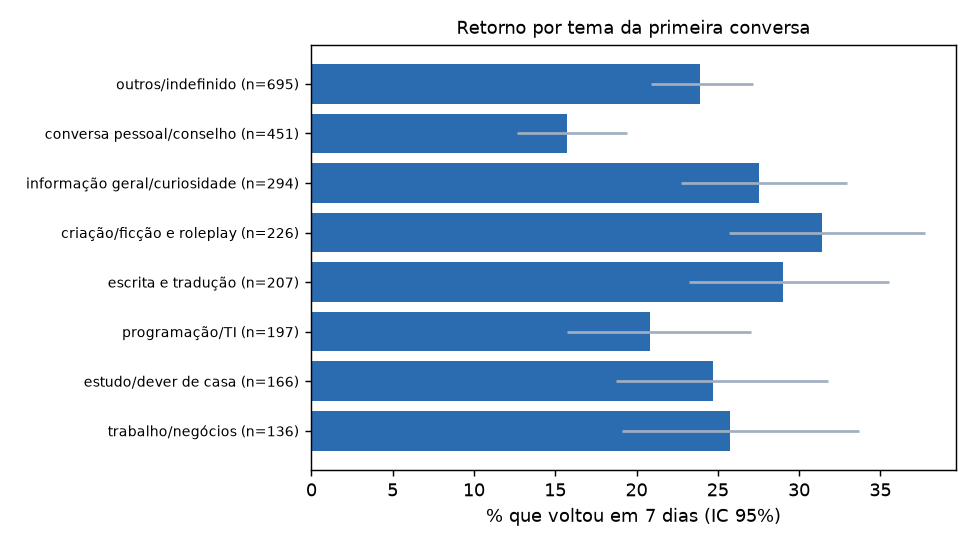
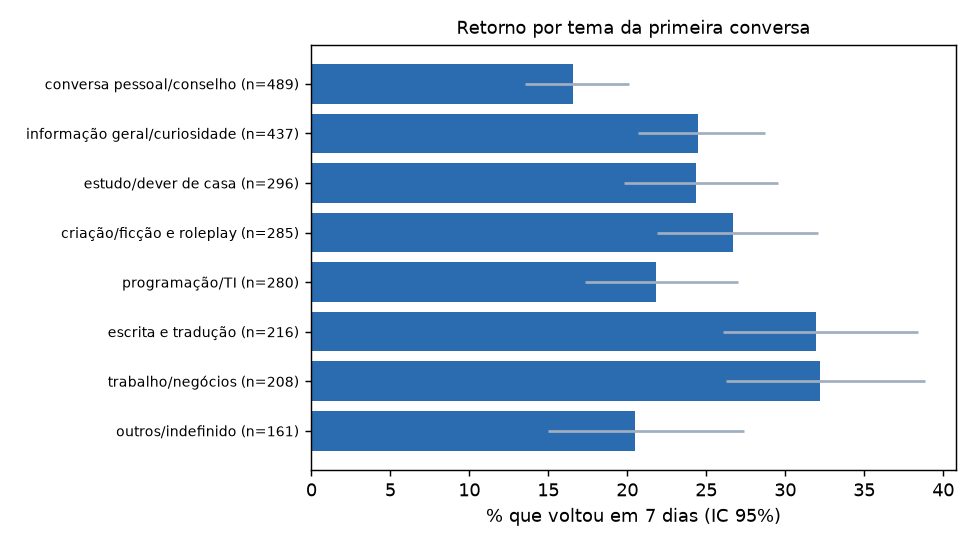
feat(m4): decomposição ignora base de início de coleta; 01/05 contra as seguintes (−7,7 p.p.); BDR-09 e STATE [T-207]

diff --git a/analise/semana.py b/analise/semana.py
@@ -28,8 +28,9 @@ SEMANAS_BASE = 4
 ROTULO_RARO = "outros"
 
 SQL = """
-SELECT d.coorte_semana AS semana, f.dispositivo, f.modelo_familia, f.voltou_7d
+SELECT d.coorte_semana AS semana, f.dispositivo, f.modelo_familia, f.voltou_7d, a.inicio_coleta
 FROM mart.fct_primeira_experiencia f JOIN mart.dim_usuario d USING (usuario_id)
+JOIN mart.agg_retencao_periodo a ON a.granularidade = 'semana' AND a.periodo = d.coorte_semana
 WHERE f.elegivel
 """
 
@@ -81,7 +82,7 @@ def agrupar_segmentos_raros(base: dict, semana: dict, n_min: int) -> tuple[dict,
 
 
 def veredito(taxa_base: float, taxa_semana: float, n_base: int, n_semana: int, mix_pp: float, taxa_pp: float, p: float,
-             n_semanas: int, n_sig: int) -> str:
+             n_semanas: int, n_sig: int, base_rotulo: str = "nas semanas anteriores") -> str:
     """Texto para o cliente (sem jargão estatístico): quanto voltou, de onde veio a diferença e se dá para distinguir de ruído.
 
     Os números técnicos (mix, taxa, p-valor, IC) ficam nas colunas numéricas da tabela; aqui só linguagem simples.
@@ -89,7 +90,7 @@ def veredito(taxa_base: float, taxa_semana: float, n_base: int, n_semana: int, m
     por_100 = lambda x: f"{round(x * 100):d}"  # noqa: E731
     queda = taxa_semana < taxa_base
     s1 = (f"Nesta semana, {por_100(taxa_semana)} de cada 100 novos usuários ({n_semana} no total) voltaram, contra "
-          f"{por_100(taxa_base)} de cada 100 nas semanas anteriores ({n_base} usuários).")
+          f"{por_100(taxa_base)} de cada 100 {base_rotulo} ({n_base} usuários).")
     total = abs(mix_pp) + abs(taxa_pp)
     parte_comportamento = abs(taxa_pp) / total if total else 0.0
     movimento = "queda" if queda else "subida"
@@ -118,9 +119,19 @@ def _contagens(df: pd.DataFrame) -> dict[str, tuple[int, int]]:
     return {s: (int(r["size"]), int(r["sum"])) for s, r in g.iterrows()}
 
 
+def _limpas(df: pd.DataFrame) -> pd.DataFrame:
+    """BDR-09: semanas que começam a menos de 28 dias do 1º dado (inicio_coleta) nunca servem de base: podem ter usuários antigos como novos."""
+    return df[~df["inicio_coleta"].astype(bool)] if "inicio_coleta" in df.columns else df
+
+
 def _base_da_semana(df: pd.DataFrame, semana: date) -> pd.DataFrame:
     ini = semana - timedelta(weeks=SEMANAS_BASE)
-    return df[(df["semana"] >= ini) & (df["semana"] < semana)]
+    return _limpas(df[(df["semana"] >= ini) & (df["semana"] < semana)])
+
+
+def _base_seguintes(df: pd.DataFrame, semana: date) -> pd.DataFrame:
+    fim = semana + timedelta(weeks=SEMANAS_BASE + 1)
+    return _limpas(df[(df["semana"] > semana) & (df["semana"] < fim)])
 
 
 def contar_semanas_significativas(df: pd.DataFrame, n_min: int) -> tuple[int, int]:
@@ -136,10 +147,11 @@ def contar_semanas_significativas(df: pd.DataFrame, n_min: int) -> tuple[int, in
     return testadas, sig
 
 
-def decompor(df: pd.DataFrame, semana: date, n_min: int) -> tuple[dict, list[dict]]:
-    """Resumo + linhas por segmento da `semana` contra as semanas de coorte anteriores (até 4, as presentes entre elegíveis)."""
+def decompor(df: pd.DataFrame, semana: date, n_min: int, contra_seguintes: bool = False) -> tuple[dict, list[dict]]:
+    """Resumo + linhas por segmento da `semana` contra as 4 semanas de coorte anteriores sem início de coleta (ou, com
+    `contra_seguintes`, as 4 seguintes: usado quando a semana é do início da coleta e não há base anterior limpa)."""
     sem = df[df["semana"] == semana]
-    base = _base_da_semana(df, semana)
+    base = _base_seguintes(df, semana) if contra_seguintes else _base_da_semana(df, semana)
     if sem.empty or base.empty:
         raise ValueError(f"semana {semana} sem usuários elegíveis ou sem base de comparação")
     b_cont, s_cont = agrupar_segmentos_raros(_contagens(base), _contagens(sem), n_min)
@@ -150,12 +162,14 @@ def decompor(df: pd.DataFrame, semana: date, n_min: int) -> tuple[dict, list[dic
     testadas, sig = contar_semanas_significativas(df, n_min)
     delta, mix, taxa = (round(tot[k] * 100, 4) for k in ("delta", "mix", "taxa"))
     semanas_base = sorted(base["semana"].unique())
+    qual = "seguintes (a semana é do início da coleta; não há base anterior limpa)" if contra_seguintes else "anteriores"
     resumo = {
         "semana": semana,
-        "base_descricao": f"{len(semanas_base)} semanas de coorte anteriores ({semanas_base[0]:%d/%m/%Y} a {semanas_base[-1]:%d/%m/%Y}), só elegíveis",
+        "base_descricao": f"{len(semanas_base)} semanas de coorte {qual} ({semanas_base[0]:%d/%m/%Y} a {semanas_base[-1]:%d/%m/%Y}), só elegíveis, sem início de coleta",
         "n_base": n_b, "n_semana": n_s, "taxa_base": round(tot["taxa_base"], 6), "taxa_semana": round(tot["taxa_semana"], 6),
         "delta_pp": delta, "mix_pp": mix, "taxa_pp": taxa, "p_valor": round(p, 6),
-        "conclusao": veredito(tot["taxa_base"], tot["taxa_semana"], n_b, n_s, mix, taxa, p, testadas, sig),
+        "conclusao": veredito(tot["taxa_base"], tot["taxa_semana"], n_b, n_s, mix, taxa, p, testadas, sig,
+                              "nas semanas seguintes" if contra_seguintes else "nas semanas anteriores"),
     }
     segs = [{"semana": semana, "segmento": l["segmento"], "peso_base": round(l["peso_base"], 6), "peso_semana": round(l["peso_semana"], 6),
              "taxa_base": round(l["taxa_base"], 6), "taxa_semana": round(l["taxa_semana"], 6),
@@ -174,7 +188,10 @@ def gravar(conn: psycopg.Connection, semanas: list[date] | None = None) -> list[
     n_min = n_minimo(conn)
     resumos, segs = [], []
     for s in semanas or SEMANAS_CANDIDATAS:
-        r, l = decompor(df, s, n_min)
+        try:
+            r, l = decompor(df, s, n_min)
+        except ValueError:  # sem base anterior limpa (semana de início da coleta): compara com as seguintes
+            r, l = decompor(df, s, n_min, contra_seguintes=True)
         resumos.append(r)
         segs += l
     substituir(conn, "decomposicao_resumo", COLUNAS_RESUMO, [[r[c] for c in COLUNAS_RESUMO] for r in resumos])

diff --git a/tests/test_semana.py b/tests/test_semana.py
@@ -127,3 +127,29 @@ def test_semanas_reais_gravadas_e_fecham():
     for _, total, pb, ps in segs:
         assert float(pb) == pytest.approx(1.0, abs=1e-4) and float(ps) == pytest.approx(1.0, abs=1e-4)
     assert {s[0]: float(s[1]) for s in segs}.keys() == {r[0] for r in res}
+
+
+def _df_semanas(semanas):
+    """semanas: [(data, inicio_coleta, n, k)] -> df de 1 segmento por semana."""
+    linhas = []
+    for sem, ini, n, k in semanas:
+        linhas += [{"semana": sem, "dispositivo": "pc", "modelo_familia": "gpt-4", "voltou_7d": i < k, "inicio_coleta": ini} for i in range(n)]
+    return pd.DataFrame(linhas)
+
+
+def test_semana_de_inicio_de_coleta_nao_serve_de_base_e_usa_as_seguintes():
+    from datetime import date as d
+    df = _df_semanas([(d(2023, 4, 24), True, 100, 34), (d(2023, 5, 1), True, 100, 17),
+                      (d(2023, 5, 8), False, 100, 25), (d(2023, 5, 15), False, 100, 25)])
+    assert semana._base_da_semana(df, d(2023, 5, 1)).empty                        # a base anterior é toda de início de coleta
+    with pytest.raises(ValueError):
+        semana.decompor(df, d(2023, 5, 1), 30)
+    r, _ = semana.decompor(df, d(2023, 5, 1), 30, contra_seguintes=True)
+    assert r["n_base"] == 200 and r["taxa_base"] == pytest.approx(0.25) and r["delta_pp"] == pytest.approx(-8.0)
+    assert "seguintes" in r["base_descricao"] and "nas semanas seguintes" in r["conclusao"]
+
+
+def test_base_anterior_ignora_semanas_marcadas_mas_mantem_as_limpas():
+    from datetime import date as d
+    df = _df_semanas([(d(2023, 4, 24), True, 100, 34), (d(2023, 5, 8), False, 100, 25), (d(2023, 5, 15), False, 100, 20)])
+    assert sorted(semana._base_da_semana(df, d(2023, 5, 15))["semana"].unique()) == [d(2023, 5, 8)]

diff --git a/docs/decisoes/BDR-09-semana-analisada.md b/docs/decisoes/BDR-09-semana-analisada.md
@@ -1,28 +1,30 @@
-# BDR-09 — Qual semana explicar (e por que não só a do case)
+# BDR-09 — Qual semana explicar (e por que a maior queda era artefato)
 **Atende:** C-25, C-24
 
 ## Contexto
 O case pede uma semana em que o retorno caiu e o que explica: mudança de público (mix) ou de taxa dentro do público.
 
 ## Opções consideradas
-Rodei as 3 candidatas com amostra suficiente e comparei cada uma com as semanas anteriores (decomposição Kitagawa: mix × taxa).
+Rodei as 3 candidatas com amostra suficiente. Cada uma é comparada com 4 semanas de coorte **limpas**: só entram na base semanas que começam pelo menos 28 dias depois do primeiro dado da coleta (09/04/2023). A de 01/05 não tem base anterior limpa e foi comparada com as 4 seguintes.
 
 | Semana | Retorno | Base | Variação | Mix / taxa | p |
 |---|---|---|---:|---|---:|
-| 20/11/2023 | 21,5% (n=65) | 26,4% (n=197) | −4,9 pontos | −0,4 / −4,4 | 0,43 |
-| 17/07/2023 | 9,1% (n=33) | 22,5% (n=178) | −13,4 | −0,5 / −12,9 | 0,08 |
-| **01/05/2023** | 16,7% (n=84) | 33,8% (n=74) | −17,1 | +0,7 / −17,8 | **0,013** |
+| **20/11/2023** (a do case) | 21,5% (n=65) | 26,4% (n=197), 4 semanas anteriores | −4,9 pontos | −0,4 / −4,4 | 0,43 |
+| 17/07/2023 | 9,1% (n=33) | 22,5% (n=178), 4 semanas anteriores | −13,4 | −0,5 / −12,9 | 0,08 |
+| 01/05/2023 | 16,7% (n=84) | 24,4% (n=340), 4 semanas **seguintes** | −7,7 | −0,6 / −7,1 | 0,13 |
 
 ## Escolha
-**Semana principal: 01/05/2023.** A de 20/11/2023 (a do case) entra como contraponto: dentro da variação normal. A de 17/07 só na tabela.
+**Semana principal: 20/11/2023.** É a que o contexto do caso aponta (chegada do GPT-4 Turbo). A queda é de −4,9 pontos, quase toda de taxa, **dentro do ruído** (p = 0,43).
+
+**01/05/2023 é o caso de artefato.** Na primeira versão (base = as 2 semanas anteriores, 33,8%) ela era a maior queda da série: −17,1 pontos, p = 0,013. Isso desaparece quando o início da coleta é tratado com folga: com burn-in de 28 dias, as duas semanas de base (17/04 e 24/04) caem fora e a semana de 01/05 fica com n = 18; contra as 4 semanas seguintes a queda é de −7,7 pontos, p = 0,13.
 
 ## Consequências
-- Nas três, a queda é de **taxa** (as pessoas voltaram menos), não de mix (chegou outro público).
-- Aplicando o mesmo teste às 35 semanas com amostra suficiente, 2 deram p < 0,05, e o acaso sozinho produz cerca de 2. Então 01/05 é um alerta para olhar, não uma prova.
+- Definição oficial **não muda**: burn-in de 14 dias (pré-registrado), 566 / 2.372 (23,86%). O burn-in de 28 dias dá 2.232 elegíveis e 23,70% (checado ao lado por `scripts/burnin_14_vs_28.py`, não gravado como definição).
+- **Regra nova** (decomposição e alerta do dashboard): semana de base precisa começar pelo menos 28 dias depois do primeiro dado. A marca `inicio_coleta` fica em `mart.agg_retencao_periodo` (semanas 17/04, 24/04 e 01/05/2023; mês de abril/2023), calculada do mínimo da base, sem data fixa.
+- Testando todas as semanas com amostra suficiente e base limpa: 33 testadas, 1 com p < 0,05; o acaso sozinho produz cerca de 2. Quedas semanais isoladas não sustentam conclusão.
+- Nas três, a queda é de **taxa** (as pessoas voltaram menos), não de mix.
 
 ## Como defender
-- **Por quê:** o método separa uma semana que se distingue de ruído (01/05) de outra que não (20/11); isso evita alarme falso.
-- **Cautela declarada:** escolher a semana mais extrema entre 35 infla a chance de achar algo; por isso o documento mostra quantas semanas passariam por acaso.
-- **O que mudaria minha decisão:** saber o que mudou no produto em 01/05 (por exemplo, canal ou modelo).
-
-> **Em conferência (ponto de controle 1):** a base de 01/05 são só as 2 semanas depois do burn-in de 14 dias; usuários antigos que não apareceram nesse período entram como "novos" e podem inflar a taxa-base (33,8%). Esta escolha pode mudar depois da checagem com burn-in de 28 dias.
+- **Por quê:** a semana mais extrema entre 35 era um efeito de como a coleta começou, não do produto; o método mostra isso em vez de esconder.
+- **Cautela declarada:** escolher a semana mais extrema infla a chance de achar algo; por isso o documento mostra quantas semanas passariam por acaso.
+- **O que mudaria minha decisão:** saber o que mudou no produto em 01/05 (canal ou modelo) e ter a data de início real da coleta do dado.

diff --git a/docs/figuras/conclusoes.md b/docs/figuras/conclusoes.md
@@ -6,5 +6,5 @@ Cada figura tem uma frase de conclusão; os números saem do cálculo que gerou 
 - `02_concentracao_ip.png`: Há 2.385 IPs distintos; o 1% mais ativo (24 IPs) responde por 41% das conversas e o IP mais ativo sozinho por 13,4%. A mediana é de 1 conversa por IP: IPs de volume anômalo precisam ficar fora do modelo principal.
 - `03_retorno_semanal.png`: Entre as 36 semanas maduras com n suficiente, a faixa de incerteza de cada ponto tem em média 22 p.p. de largura: a variação semana a semana é em grande parte ruído. A média móvel de 4 semanas fica entre 14% e 38%.
 - `04_turnos.png`: 56% das conversas que contam como uso têm um único turno e 84% têm até três: o engajamento dentro da conversa é curto e vem depois da resposta, por isso entra como sinal de engajamento e não como fator do assistente.
-- `05_retorno_por_tema.png`: O tema com maior retorno é 'criação/ficção e roleplay' (31%) e o menor é 'conversa pessoal/conselho' (16%); os intervalos não se sobrepõem.
+- `05_retorno_por_tema.png`: O tema com maior retorno é 'trabalho/negócios' (32%) e o menor é 'conversa pessoal/conselho' (17%); os intervalos não se sobrepõem.
 - `06_idioma.png`: Portuguese responde por 70% das conversas. O idioma da resposta difere do da pergunta em 61% das perguntas de até 30 caracteres contra 10% nas mais longas: em pergunta curta isso é sobretudo erro de detecção, então o fator 'idioma divergente' é restrito a perguntas com mais de 30 caracteres.
